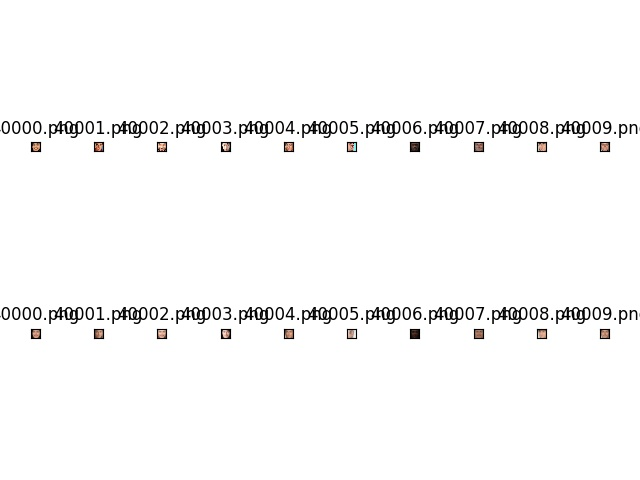
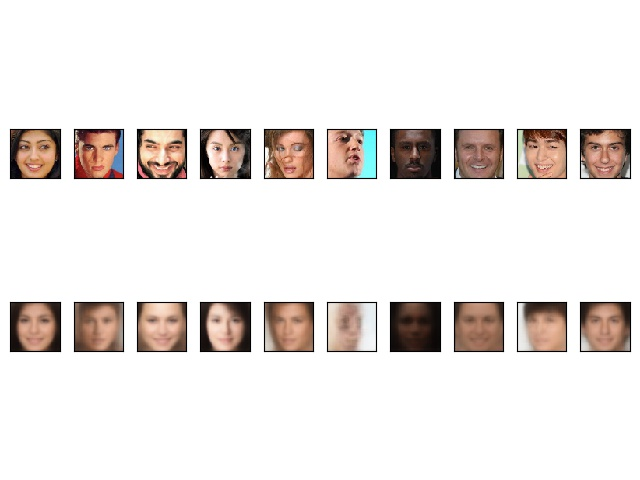
fig plot

Changed region(s): [[0.0, 0.625, 1.0, 0.75], [0.0, 0.25, 1.0, 0.375]]

diff --git a/hw4/VAE/problems.py b/hw4/VAE/problems.py
@@ -169,18 +169,18 @@ def test_plot(dataset_fp, model_fp, out_fp) :
         plt.subplot(2, 10, i)
         plt.xticks([])
         plt.yticks([])
-        plt.title("{:0>5}.png".format(40000 + i - 1))
+        #plt.title("{:0>5}.png".format(40000 + i - 1))
         plt.imshow(img)
 
     for i, img in enumerate(imgs_recon, 1) :
         plt.subplot(2, 10, i + 10)
         plt.xticks([])
         plt.yticks([])
-        plt.title("{:0>5}.png".format(40000 + i - 1))
+        #plt.title("{:0>5}.png".format(40000 + i - 1))
         plt.imshow(img)
 
 
-    plt.tight_layout(pad=0.5, h_pad=0.5)
+    plt.tight_layout(pad=0.5, h_pad=0.0)
     plt.savefig(os.path.join(out_fp, "fig1_3.jpg"))
 
 
